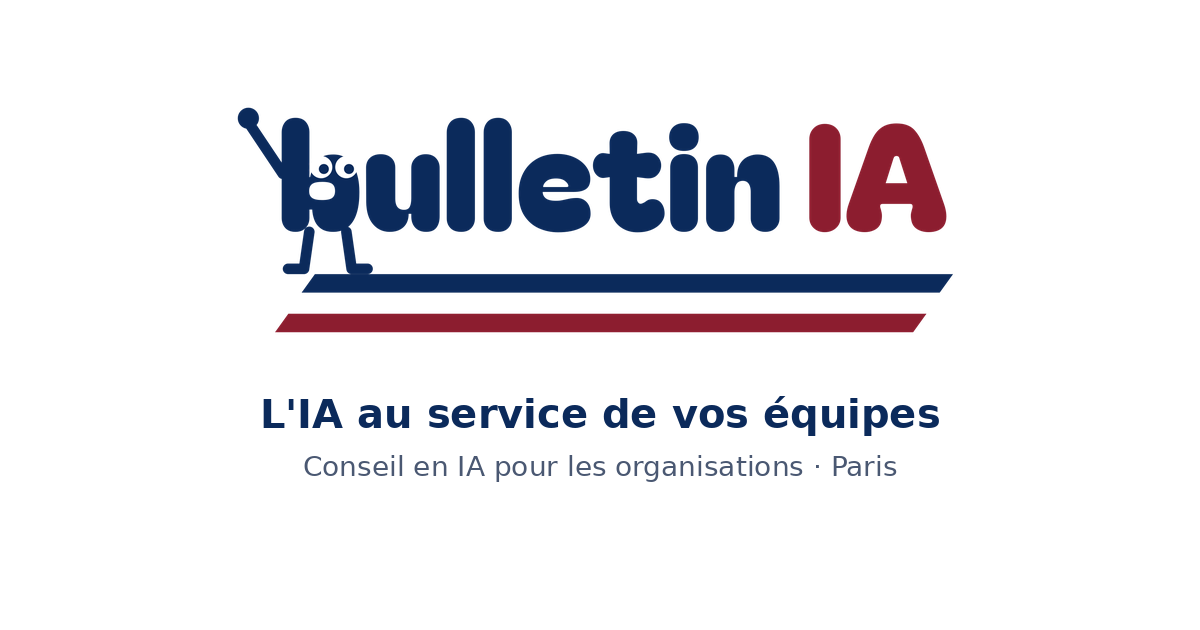
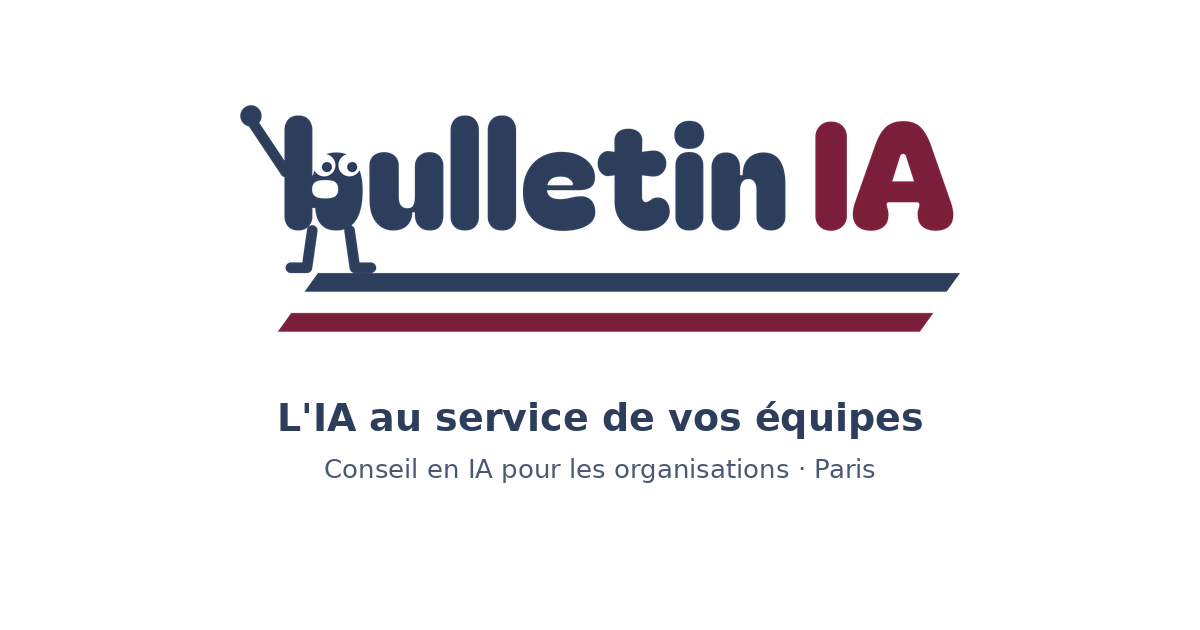
Nouveau duo de couleurs : bleu ardoise et bordeaux (choix 3) (#6)
Claude-Session: https://claude.ai/code/session_01Sy1XZYKsPMJwmgR7NdpK3Z

diff --git a/index.html b/index.html
@@ -6,7 +6,7 @@
 <meta name="description" content="Conseil en IA pour les organisations : nous repérons les tâches à automatiser, déployons les bons outils sur un pilote mesuré et formons vos équipes. Finance, gestion, commercial, administratif. Paris.">
 <link rel="canonical" href="https://bulletin-ia.fr/">
 <meta name="robots" content="index,follow">
-<meta name="theme-color" content="#0B2A5B">
+<meta name="theme-color" content="#2C3E5C">
 <meta name="color-scheme" content="light">
 <link rel="icon" href="favicon.ico" sizes="any">
 <link rel="icon" href="icone.png" type="image/png">
@@ -30,7 +30,7 @@
 <link rel="preconnect" href="https://fonts.gstatic.com" crossorigin>
 <link rel="stylesheet" href="https://fonts.googleapis.com/css2?family=Archivo:wght@400;500;600;800&family=Bagel+Fat+One&display=swap">
 <style>
-:root{--bleu:#0B2A5B;--rouge:#8C1D2F;--ciel:#E8EEF7;--blanc:#FFFFFF;--encre:#0F172A;--muted:#4A5872;--line:#D5DEEC;--vert:#1F7A4D;
+:root{--bleu:#2C3E5C;--rouge:#7B1E3A;--ciel:#E9EDF3;--blanc:#FFFFFF;--encre:#0F172A;--muted:#4A5872;--line:#D5DEEC;--vert:#1F7A4D;
 --wrap:1160px;--display:"Bagel Fat One","Archivo",system-ui,sans-serif;--sans:"Archivo",system-ui,-apple-system,"Segoe UI",Arial,sans-serif}
 *{box-sizing:border-box}
 html{-webkit-text-size-adjust:100%;color-scheme:light}
@@ -68,8 +68,8 @@ p{margin:0 0 14px}
 @media (max-width:899px){.top nav .opt{display:none}}
 .btn{display:inline-flex;align-items:center;justify-content:center;gap:10px;min-height:56px;font:800 17px/1.2 var(--sans);padding:15px 26px;
 border-radius:999px;text-decoration:none;border:2px solid var(--bleu);text-align:center;cursor:pointer;transition:transform .15s,box-shadow .15s,background .15s}
-.btn.p{background:var(--rouge);border-color:var(--rouge);color:#fff;box-shadow:0 10px 24px -10px rgba(140,29,47,.7)}
-.btn.p:hover{transform:translateY(-2px);box-shadow:0 14px 28px -10px rgba(140,29,47,.8)}
+.btn.p{background:var(--rouge);border-color:var(--rouge);color:#fff;box-shadow:0 10px 24px -10px rgba(123,30,58,.7)}
+.btn.p:hover{transform:translateY(-2px);box-shadow:0 14px 28px -10px rgba(123,30,58,.8)}
 .btn.s{color:var(--bleu);background:transparent}
 .btn.s:hover{background:var(--ciel)}
 .btn .arr{transition:transform .15s}.btn:hover .arr{transform:translateX(4px)}
@@ -92,7 +92,7 @@ border-radius:999px;text-decoration:none;border:2px solid var(--bleu);text-align
 .bigstripes i{height:26px;background:var(--bleu);transform:skewX(-34deg)}
 .bigstripes i+i{background:var(--rouge);margin-left:-40px}
 /* Carte animée */
-.demo{position:relative;background:var(--blanc);border:1px solid var(--line);border-radius:22px;padding:22px;box-shadow:0 40px 80px -40px rgba(11,42,91,.45),0 2px 0 rgba(11,42,91,.04)}
+.demo{position:relative;background:var(--blanc);border:1px solid var(--line);border-radius:22px;padding:22px;box-shadow:0 40px 80px -40px rgba(44,62,92,.45),0 2px 0 rgba(44,62,92,.04)}
 .demo-h{display:flex;justify-content:space-between;align-items:center;gap:10px;margin-bottom:16px;padding-right:58px}
 .demo-h b{font:800 17px var(--sans);color:var(--bleu)}
 .demo-h small{font:700 12px var(--sans);letter-spacing:.08em;text-transform:uppercase;color:var(--muted);background:var(--ciel);padding:5px 10px;border-radius:99px}
@@ -109,7 +109,7 @@ border-radius:999px;text-decoration:none;border:2px solid var(--bleu);text-align
 .tasks li.you .st{color:var(--vert)}
 @keyframes spin{to{transform:rotate(360deg)}}
 .demo-f{margin-top:14px;font-size:13px;color:var(--muted)}
-.mascot{position:absolute;width:78px;height:auto;right:-14px;top:-40px;transform:rotate(8deg);filter:drop-shadow(0 10px 18px rgba(11,42,91,.3))}
+.mascot{position:absolute;width:78px;height:auto;right:-14px;top:-40px;transform:rotate(8deg);filter:drop-shadow(0 10px 18px rgba(44,62,92,.3))}
 @media (max-width:979px){.mascot{width:64px;right:6px;top:-30px}}
 /* Écrans d'ordinateur peu hauts : tout le haut de page tient à l'écran */
 @media (min-width:980px) and (max-height:900px){.hero .w{padding-block:clamp(28px,5vh,56px) 72px}.hero h1{font-size:clamp(44px,min(6.4vw,12.5vh),96px);margin-bottom:16px}.hero .reass{font-size:14px;gap:4px 14px;margin-top:14px}.top .w{padding-block:8px}.hero .lead{margin-bottom:22px;font-size:18px}.hero .kick{margin-bottom:10px}.demo{padding:18px}.demo-h{margin-bottom:12px}.tasks{gap:8px}.tasks li{padding:9px 12px}.demo-f{margin-top:10px}}
@@ -136,7 +136,7 @@ border-radius:999px;text-decoration:none;border:2px solid var(--bleu);text-align
 /* Offre */
 .offer{display:grid;gap:16px;grid-template-columns:repeat(auto-fit,minmax(min(100%,250px),1fr));counter-reset:o}
 .oc{position:relative;background:var(--blanc);border:1px solid var(--line);border-radius:20px;padding:26px 24px 24px;transition:transform .2s,box-shadow .2s,border-color .2s}
-.oc:hover{transform:translateY(-6px);box-shadow:0 30px 50px -30px rgba(11,42,91,.45);border-color:var(--bleu)}
+.oc:hover{transform:translateY(-6px);box-shadow:0 30px 50px -30px rgba(44,62,92,.45);border-color:var(--bleu)}
 .oc .num{font:400 44px/1 var(--display);color:var(--bleu);display:block;margin-bottom:18px}
 .oc .tag{position:absolute;top:24px;right:22px;font:800 11px var(--sans);letter-spacing:.1em;color:var(--rouge);text-transform:uppercase}
 .oc p{color:var(--muted);margin:0;font-size:16px}
@@ -163,7 +163,7 @@ border-radius:999px;text-decoration:none;border:2px solid var(--bleu);text-align
 .flow{list-style:none;margin:0;padding:0;display:grid;gap:14px;position:relative}
 @media (min-width:980px){.flow{grid-template-columns:repeat(5,1fr);gap:16px}
 .flow::before{content:"";position:absolute;left:8%;right:8%;top:34px;height:4px;background:repeating-linear-gradient(90deg,var(--bleu) 0 14px,transparent 14px 24px);opacity:.25}}
-.flow li{position:relative;background:var(--blanc);border-radius:20px;padding:24px 22px 22px;display:flex;flex-direction:column;box-shadow:0 20px 40px -32px rgba(11,42,91,.5);transition:transform .2s}
+.flow li{position:relative;background:var(--blanc);border-radius:20px;padding:24px 22px 22px;display:flex;flex-direction:column;box-shadow:0 20px 40px -32px rgba(44,62,92,.5);transition:transform .2s}
 .flow li:hover{transform:translateY(-6px)}
 .flow .fn{width:48px;height:48px;border-radius:14px;background:var(--bleu);color:#fff;display:grid;place-items:center;font:400 24px/1 var(--display);margin-bottom:16px;position:relative;z-index:1;box-shadow:0 0 0 6px var(--ciel)}
 .flow li:last-child .fn{background:var(--rouge)}

diff --git a/404.html b/404.html
@@ -8,10 +8,10 @@
 <link rel="preconnect" href="https://fonts.googleapis.com"><link rel="preconnect" href="https://fonts.gstatic.com" crossorigin>
 <link rel="stylesheet" href="https://fonts.googleapis.com/css2?family=Archivo:wght@400;800&family=Bagel+Fat+One&display=swap">
 <style>
-body{margin:0;background:#E8EEF7;color:#0F172A;font:17px/1.6 "Archivo",system-ui,sans-serif;min-height:100vh;display:grid;place-items:center;text-align:center;padding:24px 16px;box-sizing:border-box}
+body{margin:0;background:#E9EDF3;color:#0F172A;font:17px/1.6 "Archivo",system-ui,sans-serif;min-height:100vh;display:grid;place-items:center;text-align:center;padding:24px 16px;box-sizing:border-box}
 img{width:200px;height:auto}
-h1{font:400 clamp(40px,8vw,64px)/1 "Bagel Fat One",system-ui,sans-serif;color:#0B2A5B;margin:28px 0 12px}
-a.btn{display:inline-block;margin-top:14px;background:#D62828;color:#fff;font-weight:800;text-decoration:none;padding:14px 24px;border-radius:999px}
+h1{font:400 clamp(40px,8vw,64px)/1 "Bagel Fat One",system-ui,sans-serif;color:#2C3E5C;margin:28px 0 12px}
+a.btn{display:inline-block;margin-top:14px;background:#7B1E3A;color:#fff;font-weight:800;text-decoration:none;padding:14px 24px;border-radius:999px}
 </style>
 </head>
 <body><main><a href="/"><img src="/logo.svg" width="513" height="176" alt="bulletin IA, accueil"></a><h1>Page introuvable</h1><p>Cette page n'existe pas ou a été déplacée.</p><a class="btn" href="/">Retour à l'accueil</a></main></body>
